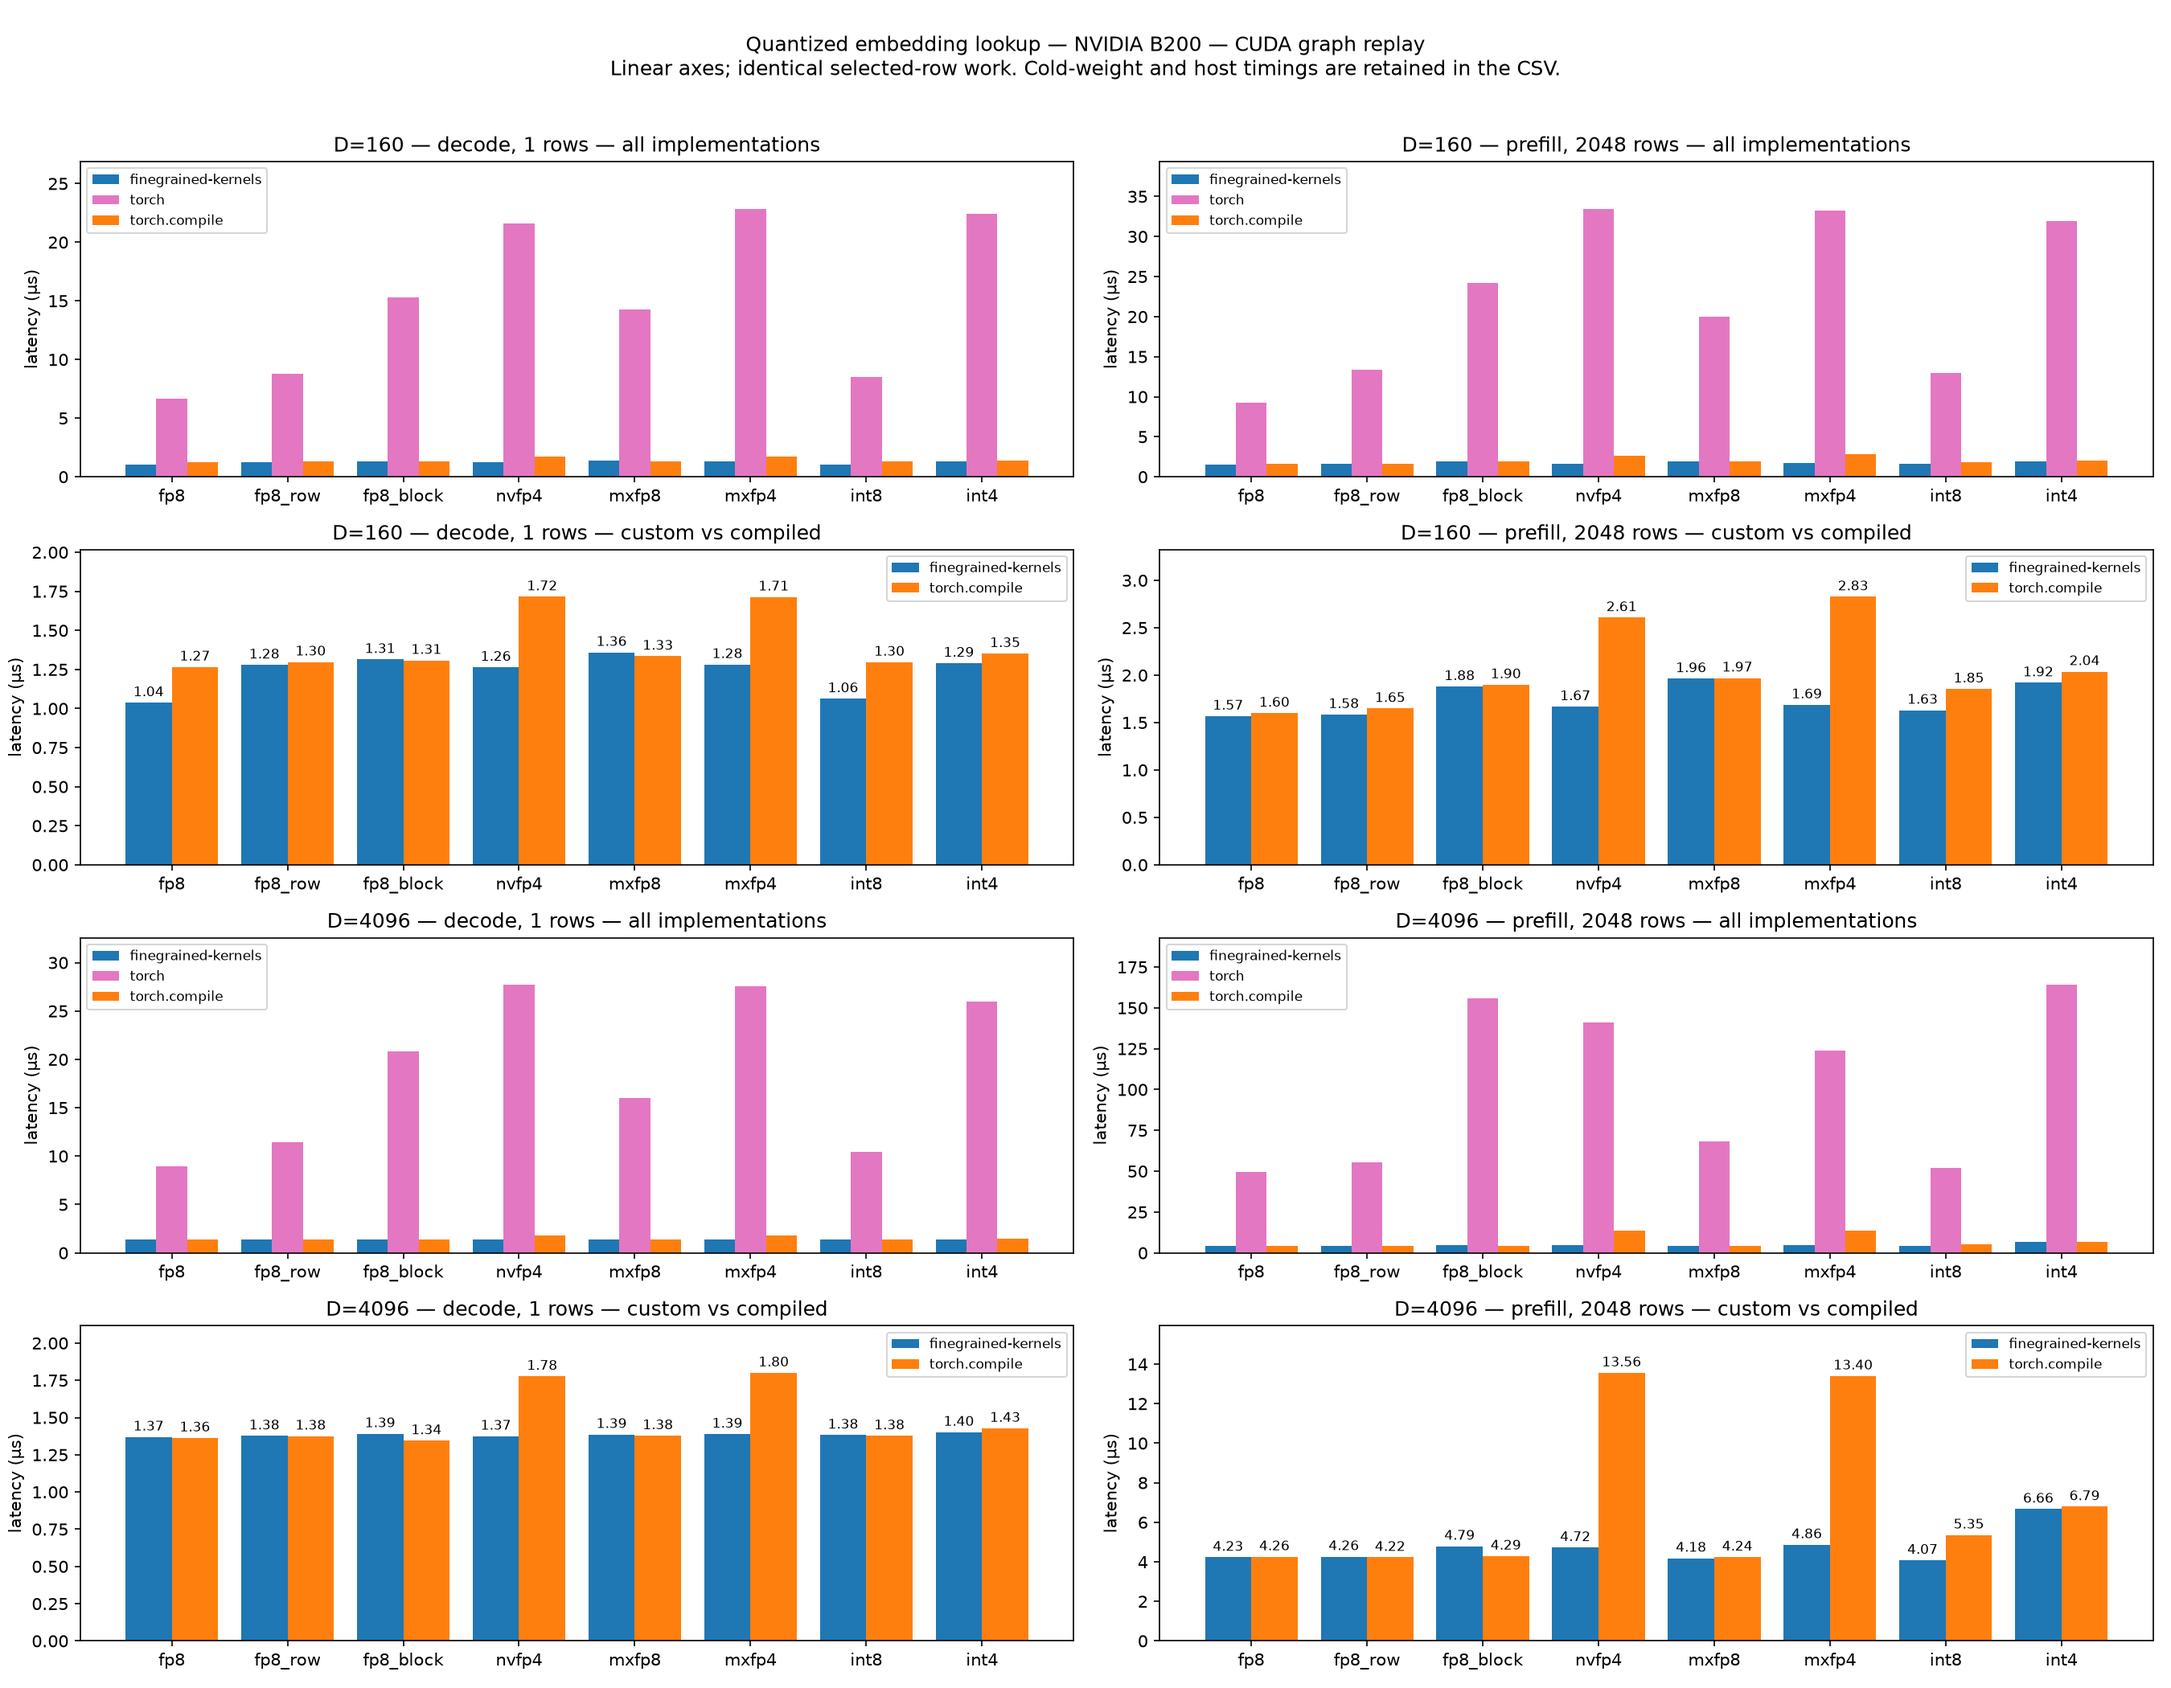
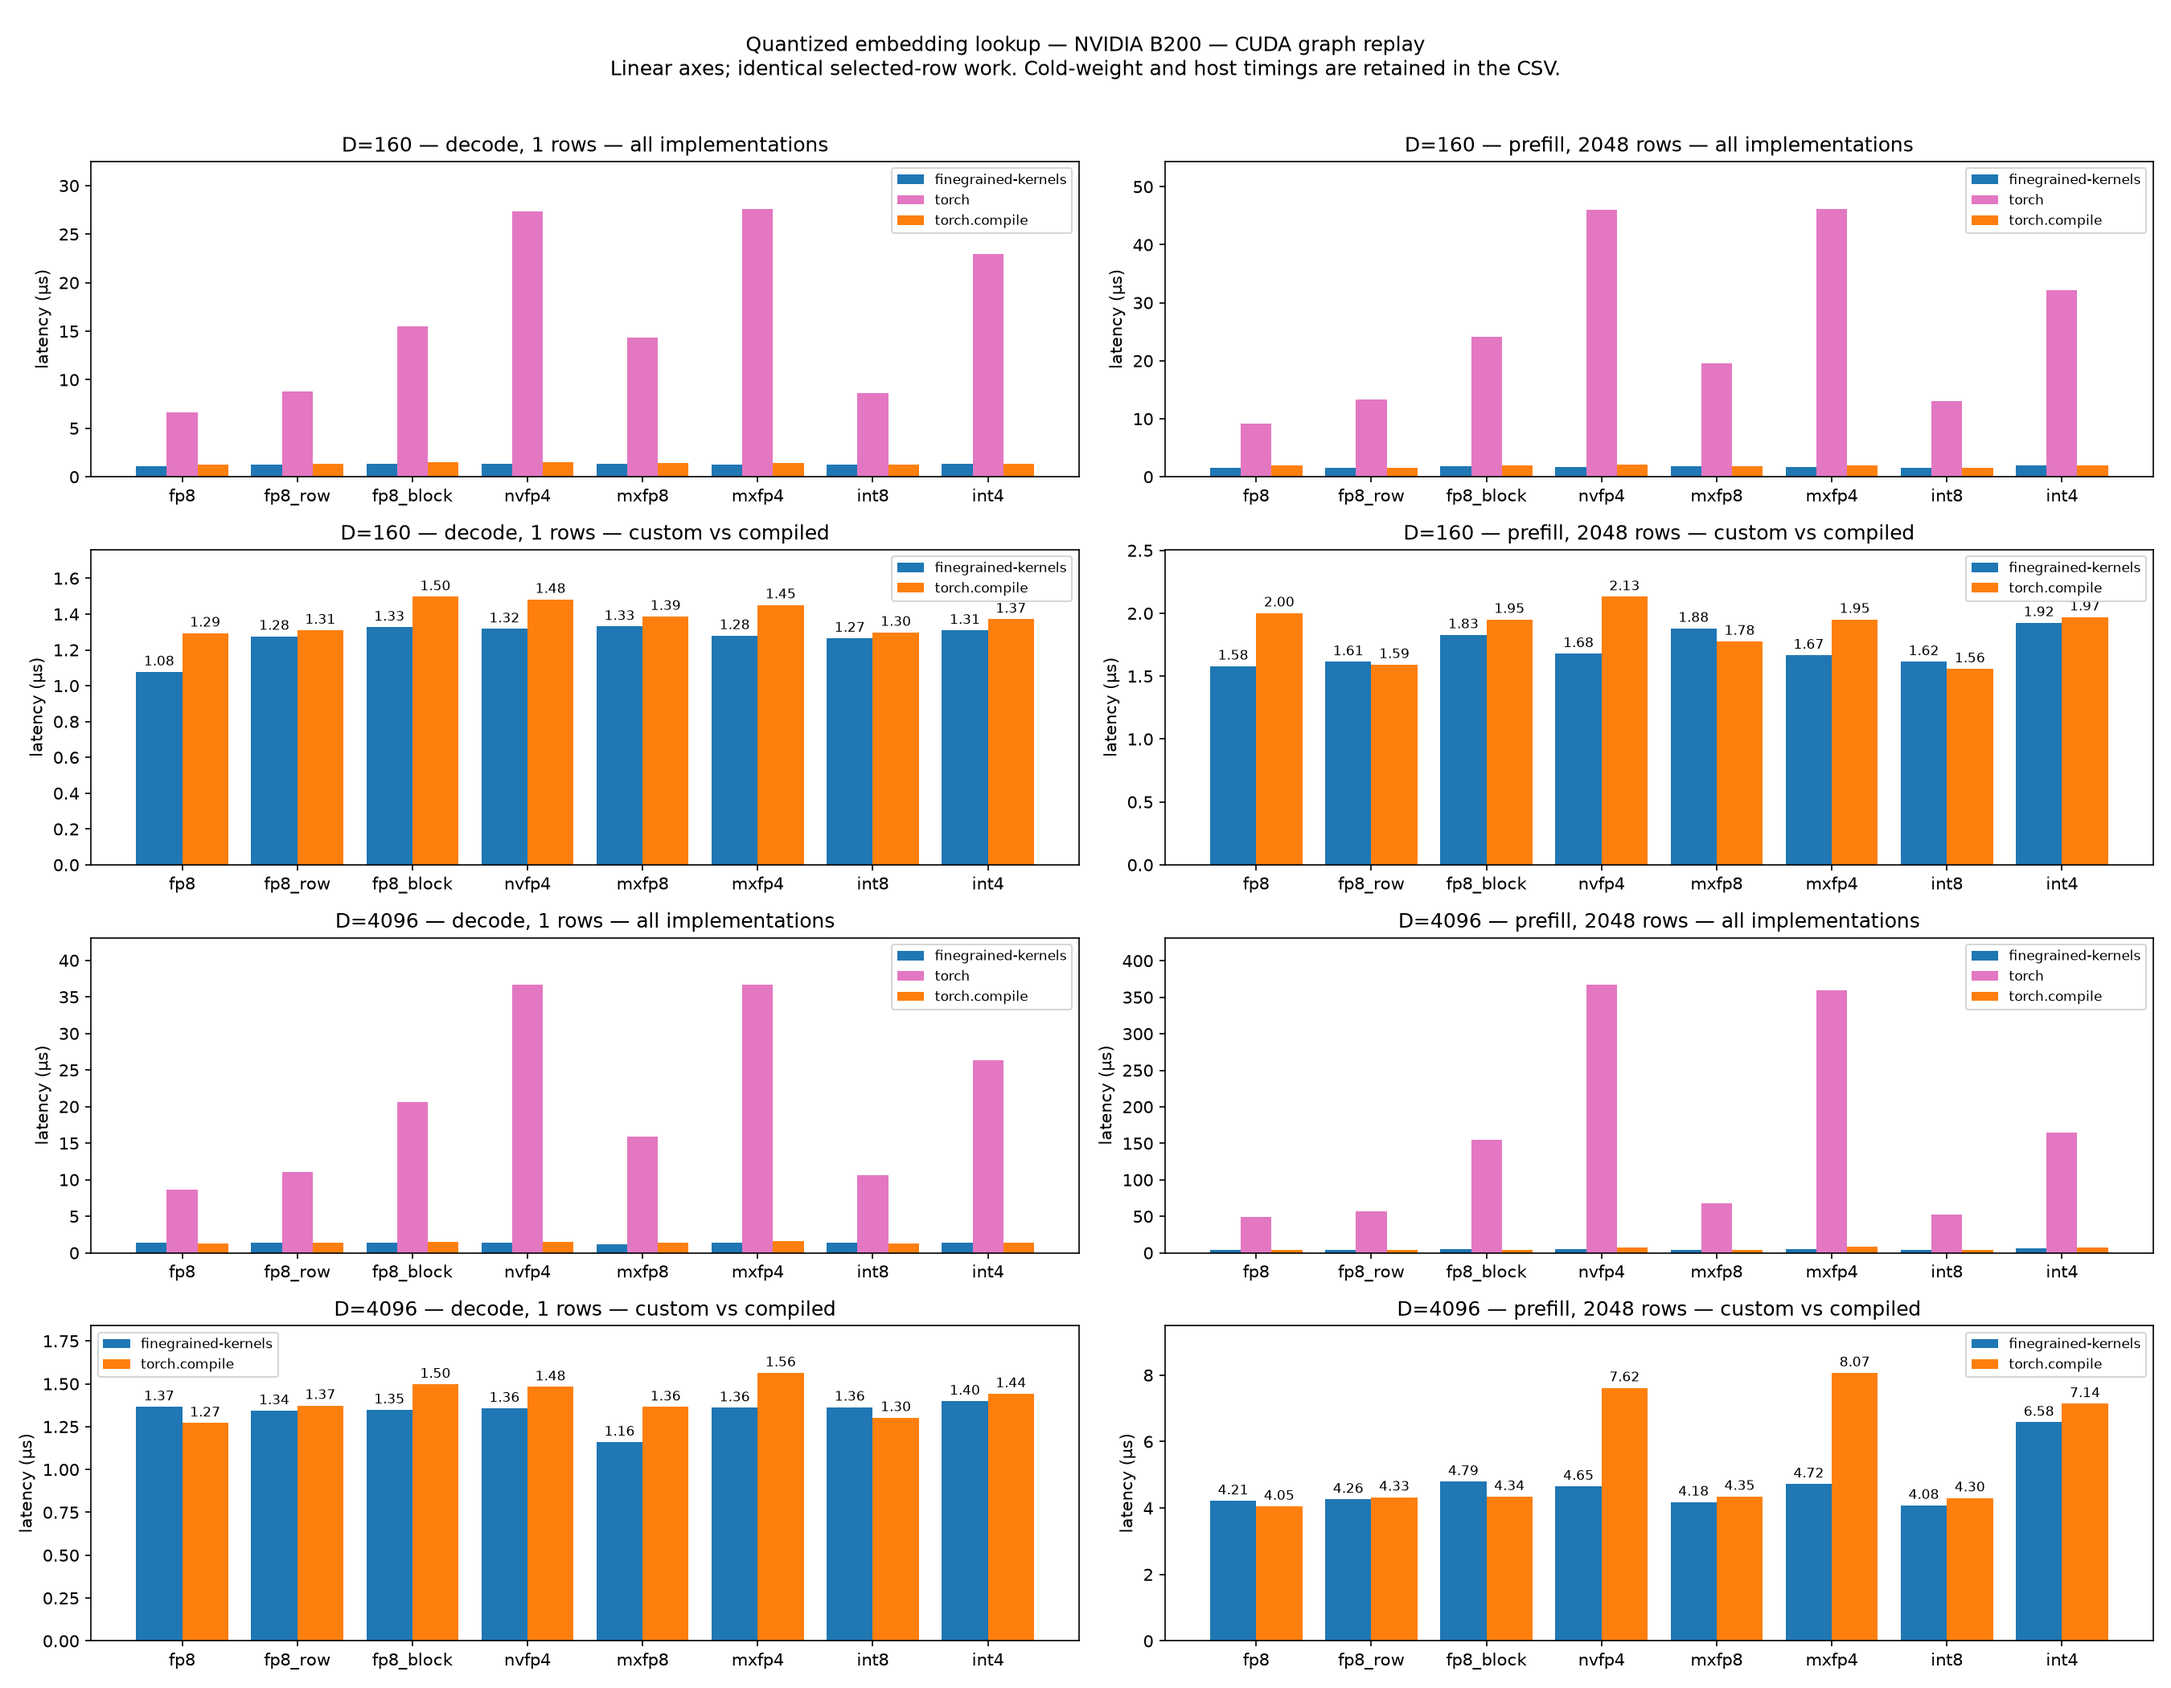
Strengthen compiled Torch FP4 embedding benchmark baseline

diff --git a/finegrained-kernels/bench/bench_embeddings.py b/finegrained-kernels/bench/bench_embeddings.py
@@ -86,13 +86,13 @@ def torch_embedding(weight, ids, scale, global_scale, fmt, width, fp4_lut):
         packed = weight[ids // 2].to(torch.int16)
         code = (packed >> ((ids % 2)[:, None] * 4)) & 15
         value = ((code ^ 8) - 8).float()
+    elif fmt in ("nvfp4", "mxfp4"):
+        cols = torch.arange(width, device=weight.device)
+        packed = weight[ids[:, None], cols[None, :] // 2]
+        code = (packed >> ((cols[None, :] % 2) * 4)) & 15
+        value = fp4_lut[code.long()]
     else:
-        value = weight[ids]
-        if fmt in ("nvfp4", "mxfp4"):
-            low, high = fp4_lut[(value & 15).long()], fp4_lut[(value >> 4).long()]
-            value = torch.stack((low, high), -1).flatten(-2)
-        else:
-            value = value.float()
+        value = weight[ids].float()
     if fmt == "fp8":
         selected_scale = scale
     elif fmt in ("fp8_row", "int8"):
@@ -100,6 +100,10 @@ def torch_embedding(weight, ids, scale, global_scale, fmt, width, fp4_lut):
     elif fmt == "fp8_block":
         cols = torch.arange(width, device=weight.device)
         selected_scale = scale[ids[:, None] // 128, cols[None, :] // 128]
+    elif fmt in ("nvfp4", "mxfp4"):
+        selected_scale = scale[ids[:, None], cols[None, :] // (16 if fmt == "nvfp4" else 32)].float()
+        if fmt == "mxfp4":
+            selected_scale = torch.exp2(selected_scale - 127)
     else:
         selected_scale = scale[ids].float()
         if fmt.startswith("mx"):
